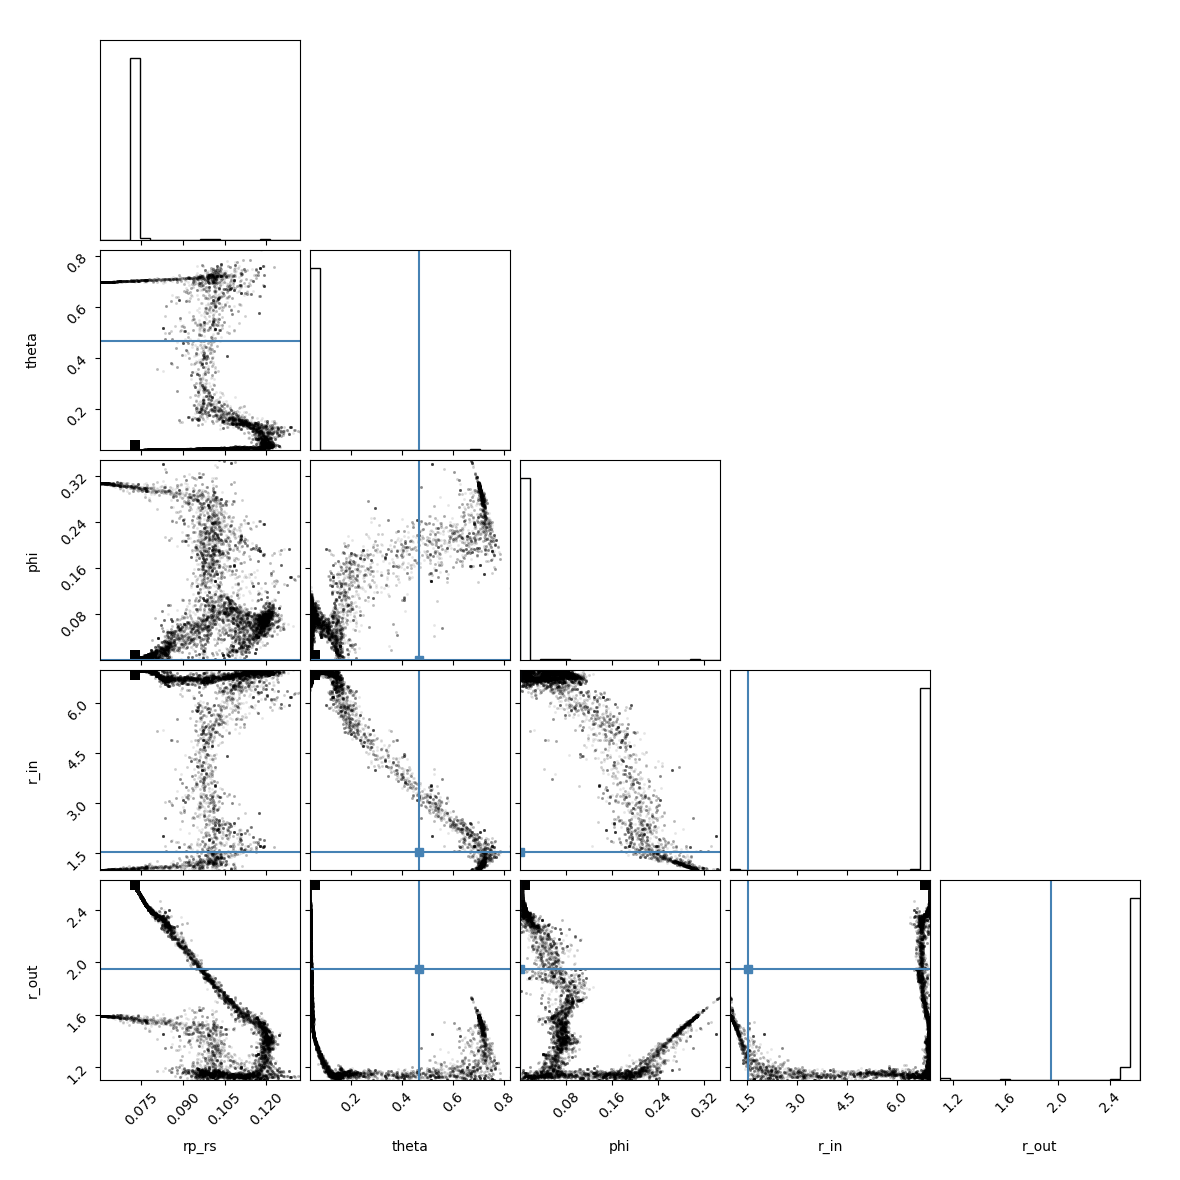
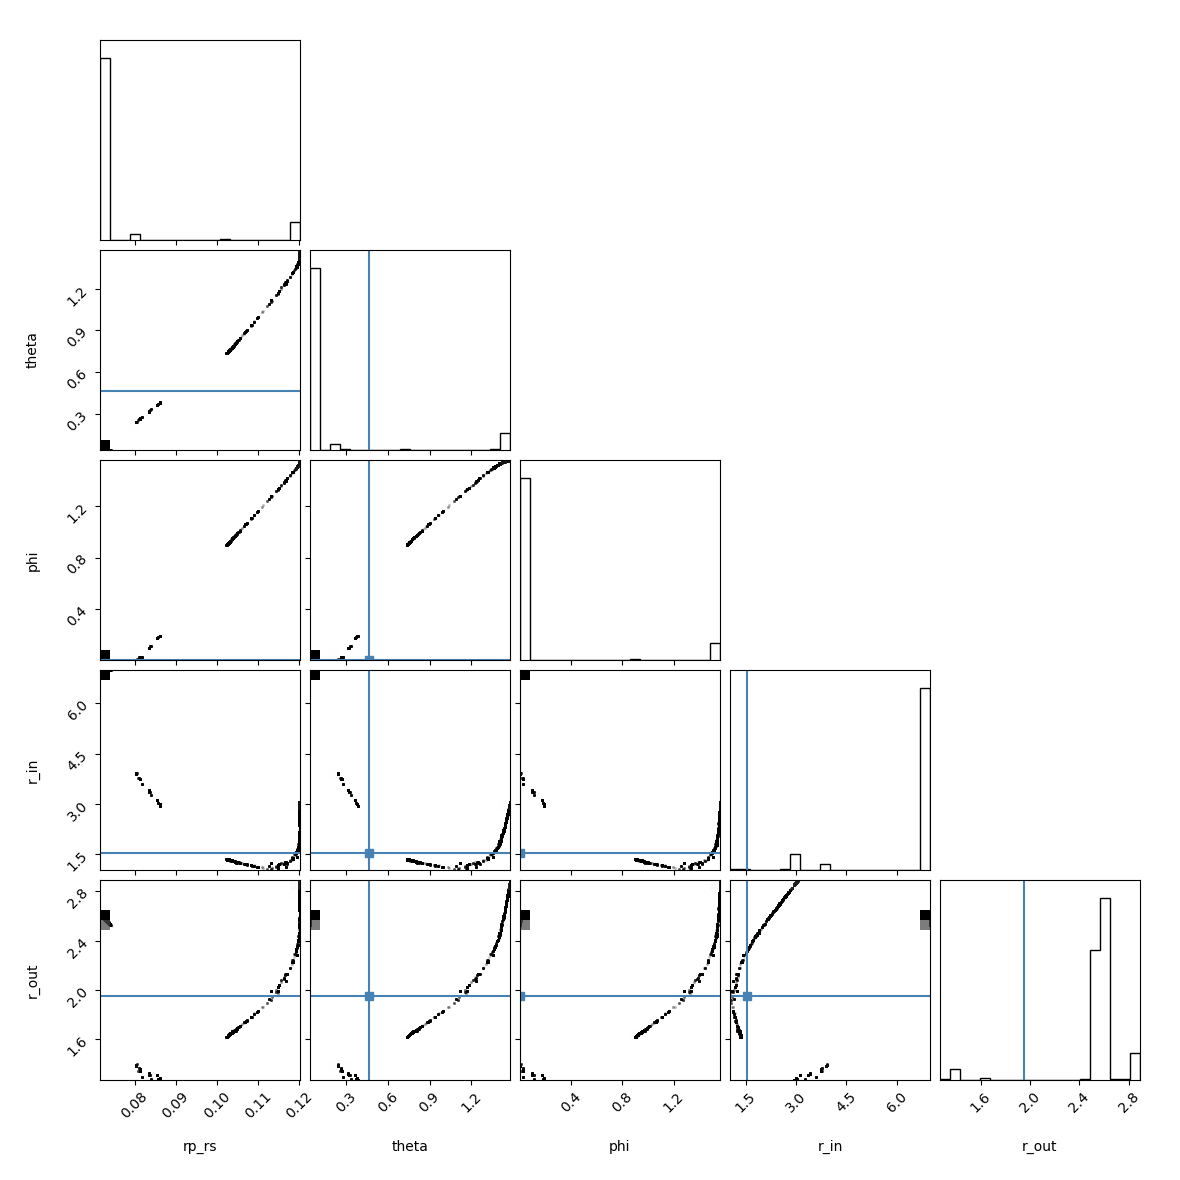
current

diff --git a/ring_transit/research_umetani/ring_planet.py b/ring_transit/research_umetani/ring_planet.py
@@ -413,6 +413,7 @@ mcmc_pvalues = mcmc_df['values'].values
 print('mcmc_params: ', mcmc_params)
 print('mcmc_pvalues: ', mcmc_pvalues)
 pos = mcmc_pvalues + 1e-5 * np.random.randn(32, len(mcmc_pvalues))
+import pdb; pdb.set_trace()
 #pos = np.array([rp_rs, theta, phi, r_in, r_out]) + 1e-8 * np.random.randn(32, 5)
 nwalkers, ndim = pos.shape
 
@@ -489,12 +490,12 @@ if __name__ ==  '__main__':
 
     ###corner visualization###
     samples = sampler.flatchain
-    flat_samples = sampler.get_chain(discard=100, thin=15, flat=True)
+    flat_samples = sampler.get_chain(discard=1000, thin=15, flat=True)
     print(flat_samples.shape)
     truths = []
     for param in labels:
         truths.append(pdic_saturnlike[param])
-    fig = corner.corner(samples, labels=labels, truths=truths);
+    fig = corner.corner(flat_samples, labels=labels, truths=truths);
     plt.savefig('corner.png')
     plt.close()
 
